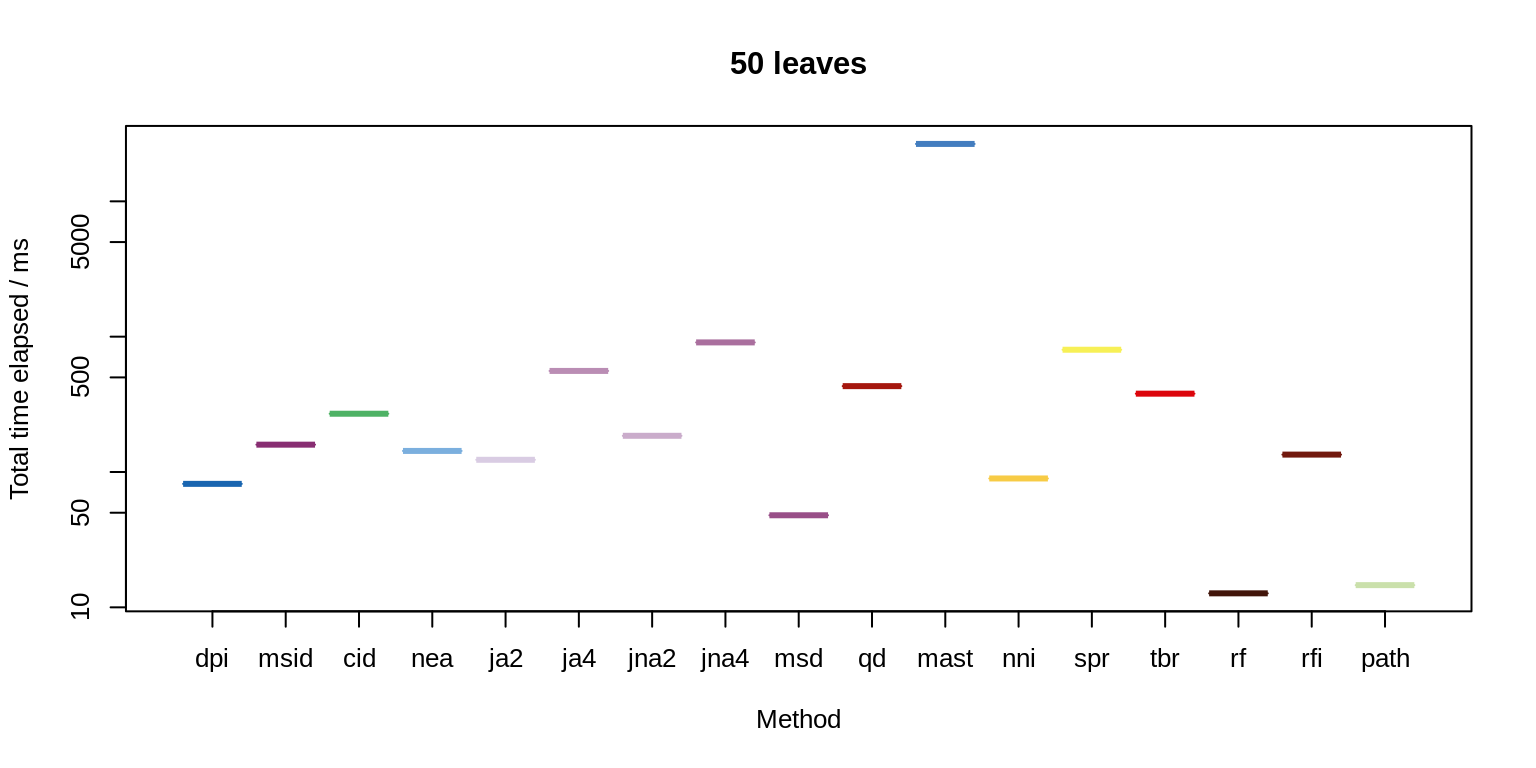
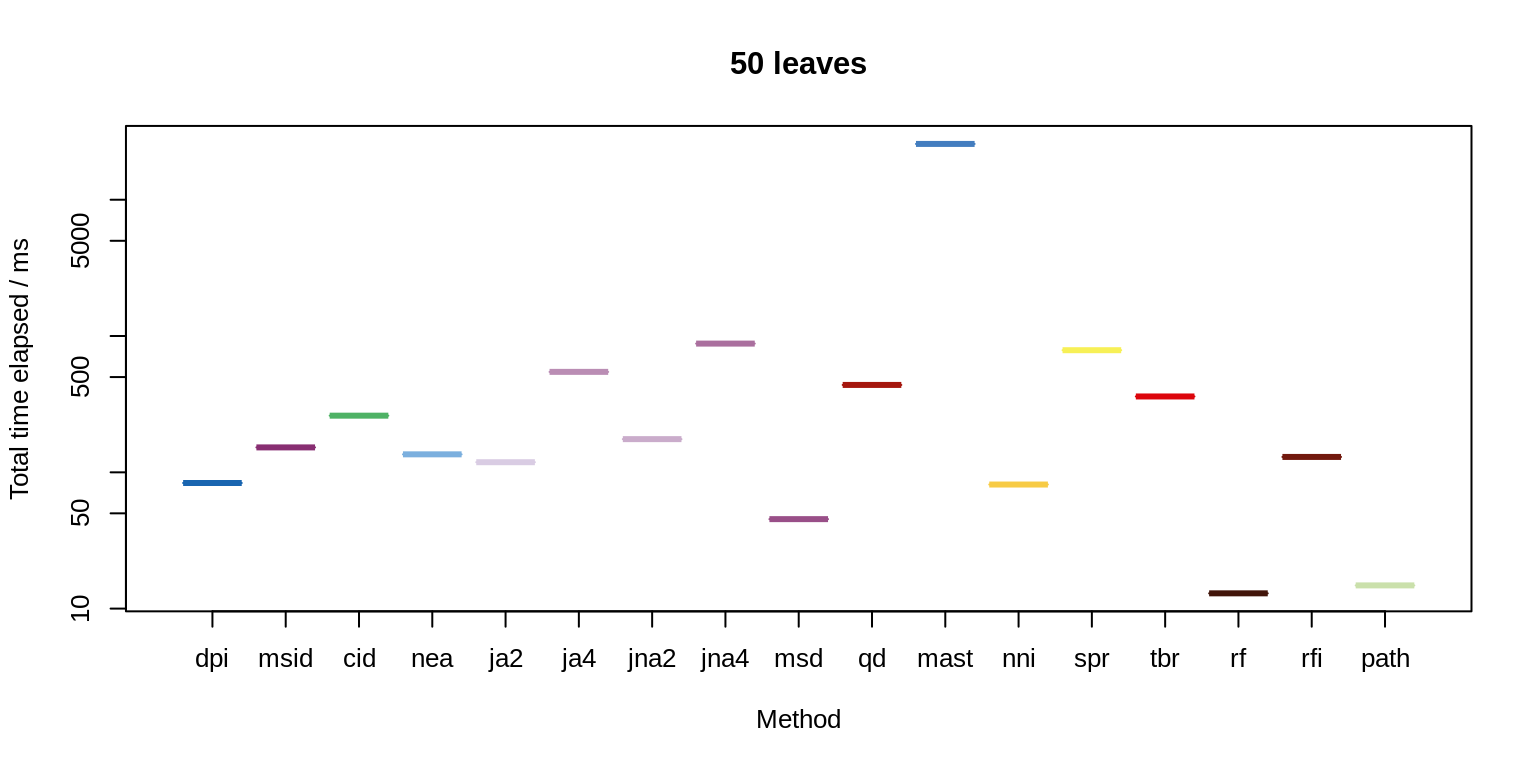
Built site for TreeDistData: 0.1.0@9328327

diff --git a/news/index.html b/news/index.html
@@ -67,7 +67,7 @@
       </button>
       <span class="navbar-brand">
         <a class="navbar-link" href="../index.html">TreeDistData</a>
-        <span class="version label label-danger" data-toggle="tooltip" data-placement="bottom" title="Unreleased version">0.0.0.9008</span>
+        <span class="version label label-default" data-toggle="tooltip" data-placement="bottom" title="Released version">0.1.0</span>
       </span>
     </div>
 
@@ -155,75 +155,19 @@
       <small>Source: <a href='https://github.com/ms609/TreeDistData/blob/master/NEWS.md'><code>NEWS.md</code></a></small>
     </div>
 
-    <div id="treedistdata-0-0-0-9008-development" class="section level1">
+    <div id="treedistdata-0-1-1-forthcoming" class="section level1">
 <h1 class="page-header">
-<a href="#treedistdata-0-0-0-9008-development" class="anchor"></a>TreeDistData 0.0.0.9008 (development)</h1>
+<a href="#treedistdata-0-1-1-forthcoming" class="anchor"></a>TreeDistData 0.1.1 (forthcoming)</h1>
 <ul>
-<li>Update abbreviations and recalculate distances</li>
-<li>Add Lin et al. tests</li>
-<li>Import figures to vignettes</li>
+<li>Final <code>randomTreeDistances</code> data object.</li>
 </ul>
 </div>
-    <div id="treedistdata-0-0-0-9007-development" class="section level1">
+    <div id="treedistdata-0-1-0" class="section level1">
 <h1 class="page-header">
-<a href="#treedistdata-0-0-0-9007-development" class="anchor"></a>TreeDistData 0.0.0.9007 (development)</h1>
+<a href="#treedistdata-0-1-0" class="anchor"></a>TreeDistData 0.1.0</h1>
 <ul>
-<li>Add: Bullseye distances</li>
-</ul>
-</div>
-    <div id="treedistdata-0-0-0-9006-development" class="section level1">
-<h1 class="page-header">
-<a href="#treedistdata-0-0-0-9006-development" class="anchor"></a>TreeDistData 0.0.0.9006 (development)</h1>
-<ul>
-<li>Fix: median and 75%ile misnamed in <code>randomTreeDistances</code>
-</li>
-<li>Add: Bullseye test data</li>
-</ul>
-</div>
-    <div id="treedistdata-0-0-0-9005-development" class="section level1">
-<h1 class="page-header">
-<a href="#treedistdata-0-0-0-9005-development" class="anchor"></a>TreeDistData 0.0.0.9005 (development)</h1>
-<ul>
-<li>Percentiles for <code>randomTreeDistances</code>
-</li>
-</ul>
-</div>
-    <div id="treedistdata-0-0-0-9004-development" class="section level1">
-<h1 class="page-header">
-<a href="#treedistdata-0-0-0-9004-development" class="anchor"></a>TreeDistData 0.0.0.9004 (development)</h1>
-<ul>
-<li>Add <code>pectinateDistance11</code>
-</li>
-</ul>
-</div>
-    <div id="treedistdata-0-0-0-9003-development" class="section level1">
-<h1 class="page-header">
-<a href="#treedistdata-0-0-0-9003-development" class="anchor"></a>TreeDistData 0.0.0.9003 (development)</h1>
-<ul>
-<li>Add <code>distanceDistribution11</code>
-</li>
-</ul>
-</div>
-    <div id="treedistdata-0-0-0-9002-development" class="section level1">
-<h1 class="page-header">
-<a href="#treedistdata-0-0-0-9002-development" class="anchor"></a>TreeDistData 0.0.0.9002 (development)</h1>
-<ul>
-<li>Regenerate datasets to match new function names</li>
-</ul>
-</div>
-    <div id="treedistdata-0-0-0-9001-development" class="section level1">
-<h1 class="page-header">
-<a href="#treedistdata-0-0-0-9001-development" class="anchor"></a>TreeDistData 0.0.0.9001 (development)</h1>
-<ul>
-<li>Update to use new function names <code>MutualPhylogeneticInfo()</code>, <code>MutualMatchingSplitInfo()</code>
-</li>
-</ul>
-</div>
-    <div id="treedistdata-0-0-0-9000-development" class="section level1">
-<h1 class="page-header">
-<a href="#treedistdata-0-0-0-9000-development" class="anchor"></a>TreeDistData 0.0.0.9000 (development)</h1>
-<ul>
-<li>Extracted package from ‘TreeSearch’ 0.3.2.9005.</li>
+<li>Initial compilation of analyses and datasets, forked from ‘TreeSearch’ v0.3.2.9005.</li>
+<li>NOTE: <code>randomTreeDistances</code> data object undergoing recalculation.</li>
 </ul>
 </div>
   </div>
@@ -232,15 +176,8 @@
     <div id="tocnav">
       <h2>Contents</h2>
       <ul class="nav nav-pills nav-stacked">
-        <li><a href="#treedistdata-0-0-0-9008-development">0.0.0.9008</a></li>
-        <li><a href="#treedistdata-0-0-0-9007-development">0.0.0.9007</a></li>
-        <li><a href="#treedistdata-0-0-0-9006-development">0.0.0.9006</a></li>
-        <li><a href="#treedistdata-0-0-0-9005-development">0.0.0.9005</a></li>
-        <li><a href="#treedistdata-0-0-0-9004-development">0.0.0.9004</a></li>
-        <li><a href="#treedistdata-0-0-0-9003-development">0.0.0.9003</a></li>
-        <li><a href="#treedistdata-0-0-0-9002-development">0.0.0.9002</a></li>
-        <li><a href="#treedistdata-0-0-0-9001-development">0.0.0.9001</a></li>
-        <li><a href="#treedistdata-0-0-0-9000-development">0.0.0.9000</a></li>
+        <li><a href="#treedistdata-0-1-1-forthcoming">0.1.1</a></li>
+        <li><a href="#treedistdata-0-1-0">0.1.0</a></li>
       </ul>
     </div>
   </div>

diff --git a/index.html b/index.html
@@ -5,14 +5,14 @@
 <meta charset="utf-8">
 <meta http-equiv="X-UA-Compatible" content="IE=edge">
 <meta name="viewport" content="width=device-width, initial-scale=1.0">
-<title>Data and Analysis Files to Accompany the TreeDist Package • TreeDistData</title>
+<title>Analysis of Unrooted Tree Distance Measures • TreeDistData</title>
 <!-- jquery --><script src="https://cdnjs.cloudflare.com/ajax/libs/jquery/3.3.1/jquery.min.js" integrity="sha256-FgpCb/KJQlLNfOu91ta32o/NMZxltwRo8QtmkMRdAu8=" crossorigin="anonymous"></script><!-- Bootstrap --><link rel="stylesheet" href="https://cdnjs.cloudflare.com/ajax/libs/twitter-bootstrap/3.3.7/css/bootstrap.min.css" integrity="sha256-916EbMg70RQy9LHiGkXzG8hSg9EdNy97GazNG/aiY1w=" crossorigin="anonymous">
 <script src="https://cdnjs.cloudflare.com/ajax/libs/twitter-bootstrap/3.3.7/js/bootstrap.min.js" integrity="sha256-U5ZEeKfGNOja007MMD3YBI0A3OSZOQbeG6z2f2Y0hu8=" crossorigin="anonymous"></script><!-- Font Awesome icons --><link rel="stylesheet" href="https://cdnjs.cloudflare.com/ajax/libs/font-awesome/5.7.1/css/all.min.css" integrity="sha256-nAmazAk6vS34Xqo0BSrTb+abbtFlgsFK7NKSi6o7Y78=" crossorigin="anonymous">
 <link rel="stylesheet" href="https://cdnjs.cloudflare.com/ajax/libs/font-awesome/5.7.1/css/v4-shims.min.css" integrity="sha256-6qHlizsOWFskGlwVOKuns+D1nB6ssZrHQrNj1wGplHc=" crossorigin="anonymous">
 <!-- clipboard.js --><script src="https://cdnjs.cloudflare.com/ajax/libs/clipboard.js/2.0.4/clipboard.min.js" integrity="sha256-FiZwavyI2V6+EXO1U+xzLG3IKldpiTFf3153ea9zikQ=" crossorigin="anonymous"></script><!-- headroom.js --><script src="https://cdnjs.cloudflare.com/ajax/libs/headroom/0.9.4/headroom.min.js" integrity="sha256-DJFC1kqIhelURkuza0AvYal5RxMtpzLjFhsnVIeuk+U=" crossorigin="anonymous"></script><script src="https://cdnjs.cloudflare.com/ajax/libs/headroom/0.9.4/jQuery.headroom.min.js" integrity="sha256-ZX/yNShbjqsohH1k95liqY9Gd8uOiE1S4vZc+9KQ1K4=" crossorigin="anonymous"></script><!-- pkgdown --><link href="pkgdown.css" rel="stylesheet">
-<script src="pkgdown.js"></script><meta property="og:title" content="Data and Analysis Files to Accompany the TreeDist Package">
-<meta property="og:description" content="Data used to perform analyses and generate tables and figures in
-  Smith (20XX).">
+<script src="pkgdown.js"></script><meta property="og:title" content="Analysis of Unrooted Tree Distance Measures">
+<meta property="og:description" content="Data used to perform analyses of unrooted tree distance measures,
+  underlying tables and figures in Smith (20XX).">
 <meta name="twitter:card" content="summary">
 <!-- mathjax --><script src="https://cdnjs.cloudflare.com/ajax/libs/mathjax/2.7.5/MathJax.js" integrity="sha256-nvJJv9wWKEm88qvoQl9ekL2J+k/RWIsaSScxxlsrv8k=" crossorigin="anonymous"></script><script src="https://cdnjs.cloudflare.com/ajax/libs/mathjax/2.7.5/config/TeX-AMS-MML_HTMLorMML.js" integrity="sha256-84DKXVJXs0/F8OTMzX4UR909+jtl4G7SPypPavF+GfA=" crossorigin="anonymous"></script><!--[if lt IE 9]>
 <script src="https://oss.maxcdn.com/html5shiv/3.7.3/html5shiv.min.js"></script>
@@ -32,7 +32,7 @@
       </button>
       <span class="navbar-brand">
         <a class="navbar-link" href="index.html">TreeDistData</a>
-        <span class="version label label-danger" data-toggle="tooltip" data-placement="bottom" title="Unreleased version">0.0.0.9008</span>
+        <span class="version label label-default" data-toggle="tooltip" data-placement="bottom" title="Released version">0.1.0</span>
       </span>
     </div>
 

diff --git a/articles/10-timing.html b/articles/10-timing.html
@@ -31,7 +31,7 @@
       </button>
       <span class="navbar-brand">
         <a class="navbar-link" href="../index.html">TreeDistData</a>
-        <span class="version label label-danger" data-toggle="tooltip" data-placement="bottom" title="Unreleased version">0.0.0.9008</span>
+        <span class="version label label-default" data-toggle="tooltip" data-placement="bottom" title="Released version">0.1.0</span>
       </span>
     </div>
 
@@ -150,88 +150,88 @@ The values reported in Smith <span class="citation">(2020)</span> were calculate
 <tbody>
 <tr class="odd">
 <td>Path</td>
-<td align="right">11</td>
+<td align="right">9.8</td>
 <td align="right">15</td>
 </tr>
 <tr class="even">
 <td>Robinson-Foulds</td>
-<td align="right">11</td>
+<td align="right">11.0</td>
 <td align="right">13</td>
 </tr>
 <tr class="odd">
 <td>Match. Split Dist.</td>
-<td align="right">16</td>
-<td align="right">48</td>
+<td align="right">16.0</td>
+<td align="right">46</td>
 </tr>
 <tr class="even">
+<td>Phylog. Info. Dist</td>
+<td align="right">23.0</td>
+<td align="right">84</td>
+</tr>
+<tr class="odd">
 <td>Nye et al.</td>
-<td align="right">24</td>
+<td align="right">23.0</td>
 <td align="right">140</td>
 </tr>
-<tr class="odd">
-<td>Phylog. Info. Dist</td>
-<td align="right">24</td>
-<td align="right">83</td>
-</tr>
 <tr class="even">
-<td>JRF (k=2, arboreal)</td>
-<td align="right">25</td>
-<td align="right">120</td>
+<td>Match. Split Info Dist</td>
+<td align="right">24.0</td>
+<td align="right">150</td>
 </tr>
 <tr class="odd">
-<td>Match. Split Info Dist</td>
-<td align="right">26</td>
-<td align="right">160</td>
+<td>JRF (k=2, arboreal)</td>
+<td align="right">25.0</td>
+<td align="right">120</td>
 </tr>
 <tr class="even">
 <td>JRF (k=2, non-arb.)</td>
-<td align="right">28</td>
-<td align="right">190</td>
-</tr>
-<tr class="odd">
-<td>Info. Corr. RF</td>
-<td align="right">45</td>
-<td align="right">140</td>
-</tr>
-<tr class="even">
-<td>JRF (k=4, arboreal)</td>
-<td align="right">46</td>
-<td align="right">560</td>
+<td align="right">28.0</td>
+<td align="right">180</td>
 </tr>
 <tr class="odd">
 <td>Clust. Info. Dist.</td>
-<td align="right">47</td>
-<td align="right">270</td>
+<td align="right">44.0</td>
+<td align="right">260</td>
+</tr>
+<tr class="even">
+<td>Info. Corr. RF</td>
+<td align="right">44.0</td>
+<td align="right">130</td>
+</tr>
+<tr class="odd">
+<td>JRF (k=4, arboreal)</td>
+<td align="right">45.0</td>
+<td align="right">550</td>
 </tr>
 <tr class="even">
 <td>NNI (approx.)</td>
-<td align="right">60</td>
-<td align="right">90</td>
+<td align="right">57.0</td>
+<td align="right">82</td>
 </tr>
 <tr class="odd">
 <td>JRF (k=4, non-arb.)</td>
-<td align="right">67</td>
-<td align="right">920</td>
+<td align="right">66.0</td>
+<td align="right">890</td>
 </tr>
 <tr class="even">
 <td>SPR (approx.)</td>
-<td align="right">100</td>
-<td align="right">810</td>
+<td align="right">97.0</td>
+<td align="right">800</td>
 </tr>
 <tr class="odd">
 <td>TBR (approx.)</td>
-<td align="right">210</td>
-<td align="right">380</td>
+<td align="right">210.0</td>
+<td align="right">360</td>
 </tr>
 <tr class="even">
 <td>Quartet</td>
-<td align="right">250</td>
+<td align="right">250.0</td>
 <td align="right">440</td>
 </tr>
 <tr class="odd">
 <td>MAST size</td>
-<td align="right">6700</td>
-<td align="right">27000</td>
+<td align="right">6600.0</td>
+<td align="right">26000</td>
 </tr>
 </tbody>
 </table>

diff --git a/reference/distanceDistributions.html b/reference/distanceDistributions.html
@@ -71,7 +71,7 @@ uniform distribution using ape::rtree(nTip, br=NULL)." />
       </button>
       <span class="navbar-brand">
         <a class="navbar-link" href="../index.html">TreeDistData</a>
-        <span class="version label label-danger" data-toggle="tooltip" data-placement="bottom" title="Unreleased version">0.0.0.9008</span>
+        <span class="version label label-default" data-toggle="tooltip" data-placement="bottom" title="Released version">0.1.0</span>
       </span>
     </div>
 

diff --git a/reference/randomTreePairs.html b/reference/randomTreePairs.html
@@ -70,7 +70,7 @@ distribution using ape::rtree(nTip, br = NULL)." />
       </button>
       <span class="navbar-brand">
         <a class="navbar-link" href="../index.html">TreeDistData</a>
-        <span class="version label label-danger" data-toggle="tooltip" data-placement="bottom" title="Unreleased version">0.0.0.9008</span>
+        <span class="version label label-default" data-toggle="tooltip" data-placement="bottom" title="Released version">0.1.0</span>
       </span>
     </div>
 

diff --git a/404.html b/404.html
@@ -67,7 +67,7 @@
       </button>
       <span class="navbar-brand">
         <a class="navbar-link" href="https://ms609.github.io/TreeDistData/index.html">TreeDistData</a>
-        <span class="version label label-danger" data-toggle="tooltip" data-placement="bottom" title="Unreleased version">0.0.0.9008</span>
+        <span class="version label label-default" data-toggle="tooltip" data-placement="bottom" title="Released version">0.1.0</span>
       </span>
     </div>
 

diff --git a/reference/randomTreeDistances.html b/reference/randomTreeDistances.html
@@ -71,7 +71,7 @@ ape::rtree(nTip, br=NULL)." />
       </button>
       <span class="navbar-brand">
         <a class="navbar-link" href="../index.html">TreeDistData</a>
-        <span class="version label label-danger" data-toggle="tooltip" data-placement="bottom" title="Unreleased version">0.0.0.9008</span>
+        <span class="version label label-default" data-toggle="tooltip" data-placement="bottom" title="Released version">0.1.0</span>
       </span>
     </div>
 

diff --git a/reference/bullseye.html b/reference/bullseye.html
@@ -70,7 +70,7 @@ Kuhner and Yamato (2015)." />
       </button>
       <span class="navbar-brand">
         <a class="navbar-link" href="../index.html">TreeDistData</a>
-        <span class="version label label-danger" data-toggle="tooltip" data-placement="bottom" title="Unreleased version">0.0.0.9008</span>
+        <span class="version label label-default" data-toggle="tooltip" data-placement="bottom" title="Released version">0.1.0</span>
       </span>
     </div>
 

diff --git a/reference/TreeDistData-package.html b/reference/TreeDistData-package.html
@@ -75,7 +75,7 @@ results." />
       </button>
       <span class="navbar-brand">
         <a class="navbar-link" href="../index.html">TreeDistData</a>
-        <span class="version label label-danger" data-toggle="tooltip" data-placement="bottom" title="Unreleased version">0.0.0.9008</span>
+        <span class="version label label-default" data-toggle="tooltip" data-placement="bottom" title="Released version">0.1.0</span>
       </span>
     </div>
 

diff --git a/articles/01-length-of-move.html b/articles/01-length-of-move.html
@@ -31,7 +31,7 @@
       </button>
       <span class="navbar-brand">
         <a class="navbar-link" href="../index.html">TreeDistData</a>
-        <span class="version label label-danger" data-toggle="tooltip" data-placement="bottom" title="Unreleased version">0.0.0.9008</span>
+        <span class="version label label-default" data-toggle="tooltip" data-placement="bottom" title="Released version">0.1.0</span>
       </span>
     </div>
 

diff --git a/articles/02-leaves-moved.html b/articles/02-leaves-moved.html
@@ -31,7 +31,7 @@
       </button>
       <span class="navbar-brand">
         <a class="navbar-link" href="../index.html">TreeDistData</a>
-        <span class="version label label-danger" data-toggle="tooltip" data-placement="bottom" title="Unreleased version">0.0.0.9008</span>
+        <span class="version label label-default" data-toggle="tooltip" data-placement="bottom" title="Released version">0.1.0</span>
       </span>
     </div>
 

diff --git a/articles/03-moves-made.html b/articles/03-moves-made.html
@@ -31,7 +31,7 @@
       </button>
       <span class="navbar-brand">
         <a class="navbar-link" href="../index.html">TreeDistData</a>
-        <span class="version label label-danger" data-toggle="tooltip" data-placement="bottom" title="Unreleased version">0.0.0.9008</span>
+        <span class="version label label-default" data-toggle="tooltip" data-placement="bottom" title="Released version">0.1.0</span>
       </span>
     </div>
 
